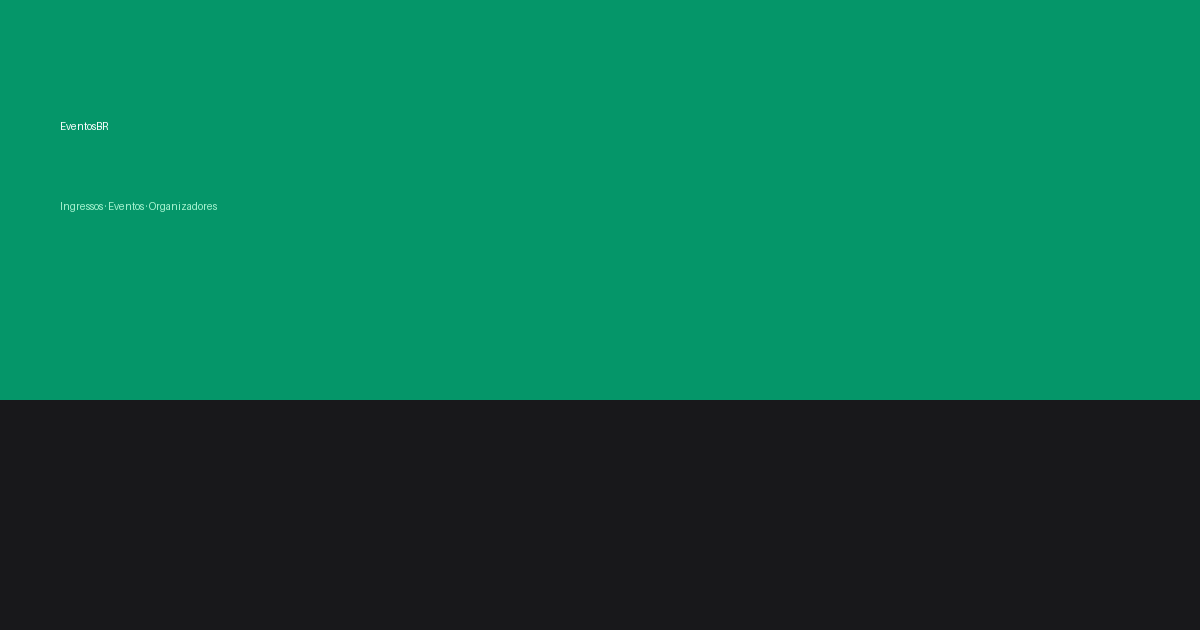
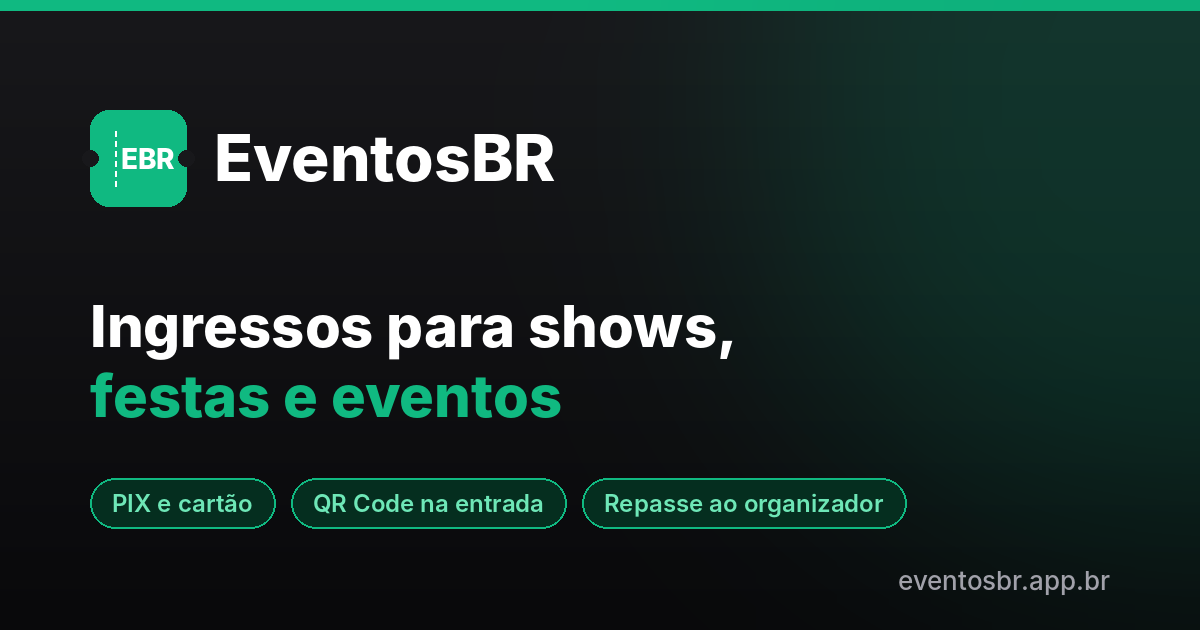
fix(seo): imagem de prévia de link (og:image) legível
A og-image.png tinha sido gerada com a fonte bitmap padrão do Pillow
(texto minúsculo) e a prévia no WhatsApp aparecia só como faixas de cor.

- Nova og-image.png 1200x630 com logo, chamada e diferenciais
- generate_og_image.py usa Inter/DejaVu e falha se não houver fonte TTF
- URL versionada (?v=2) para furar o cache de WhatsApp/Facebook
- Home e eventos sem banner declaram a imagem padrão explicitamente

Claude-Session: https://claude.ai/code/session_01MQfWPsxDuBufWXGMQJVwpU

diff --git a/frontend/src/lib/site-metadata.ts b/frontend/src/lib/site-metadata.ts
@@ -5,13 +5,21 @@ import { DEFAULT_PLATFORM_SETTINGS } from "@/lib/platform-settings";
 
 const SITE_URL = process.env.NEXT_PUBLIC_SITE_URL?.trim() || "https://eventosbr.app.br";
 
+/** Imagem padrão da prévia de link (WhatsApp, Facebook…). Ao trocar o PNG, suba o `v` para furar o cache. */
+export const DEFAULT_OG_IMAGE = {
+  url: `${SITE_URL}/og-image.png?v=2`,
+  width: 1200,
+  height: 630,
+  alt: "EventosBR — ingressos para shows, festas e eventos",
+};
+
 const SITE_DESCRIPTION =
   "Venda e compre ingressos para shows, festas, palestras e eventos corporativos. PIX e cartão, QR Code na entrada, reembolsos automáticos e repasse direto para organizadores. Crie sua conta grátis.";
 
 export function buildMetadata(platform: PlatformSettings): Metadata {
   const siteName = platform.site_name || "EventosBR";
   const title = `${siteName} — Ingressos, Shows e Eventos Online no Brasil`;
-  const ogImage = { url: `${SITE_URL}/og-image.png`, width: 1200, height: 630, alt: siteName };
+  const ogImage = { ...DEFAULT_OG_IMAGE, alt: siteName };
 
   return {
     metadataBase: new URL(SITE_URL),
@@ -53,6 +61,13 @@ export const homeMetadata: Metadata = {
     title: SITE_TITLE,
     description: SITE_DESCRIPTION,
     url: SITE_URL,
+    images: [DEFAULT_OG_IMAGE],
+  },
+  twitter: {
+    card: "summary_large_image",
+    title: SITE_TITLE,
+    description: SITE_DESCRIPTION,
+    images: [DEFAULT_OG_IMAGE.url],
   },
 };
 

diff --git a/frontend/src/app/eventos/[slug]/page.tsx b/frontend/src/app/eventos/[slug]/page.tsx
@@ -5,6 +5,7 @@ import { typicalAgeRangeFromClassificacao } from "@/lib/evento-ficha";
 import { getEventoPublicoBySlug } from "@/lib/eventos-publicos";
 import { resolveEventoImagemSrc } from "@/lib/evento-imagem-url";
 import { serializeJsonLdForScript } from "@/lib/json-ld-html";
+import { DEFAULT_OG_IMAGE } from "@/lib/site-metadata";
 
 export async function generateMetadata({
   params,
@@ -28,13 +29,13 @@ export async function generateMetadata({
         description: desc || undefined,
         type: "website",
         url: `${base}/eventos/${evento.slug}`,
-        ...(imageUrl ? { images: [{ url: imageUrl }] } : {}),
+        images: [imageUrl ? { url: imageUrl } : DEFAULT_OG_IMAGE],
       },
       twitter: {
         card: "summary_large_image",
         title: evento.nome,
         description,
-        ...(imageUrl ? { images: [imageUrl] } : {}),
+        images: [imageUrl ?? DEFAULT_OG_IMAGE.url],
       },
     };
   } catch {

diff --git a/scripts/generate_og_image.py b/scripts/generate_og_image.py
@@ -3,10 +3,15 @@
 
 Usada como fallback de `openGraph.images` para páginas que não têm imagem
 própria (institucionais, blog sem capa, etc.) — ver frontend/src/lib/site-metadata.ts.
+É a imagem que aparece na prévia do link no WhatsApp, Facebook, LinkedIn etc.
+
+Requer uma fonte TrueType/OpenType (Inter ou DejaVu). Sem ela o script FALHA em vez
+de cair na fonte bitmap padrão do Pillow (texto minúsculo e ilegível na prévia).
 """
 
 from __future__ import annotations
 
+import sys
 from pathlib import Path
 
 from PIL import Image, ImageDraw, ImageFont
@@ -16,46 +21,95 @@ OUT = ROOT / "frontend" / "public" / "og-image.png"
 
 W, H = 1200, 630
 
+BRAND = "#10b981"
+BRAND_DARK = "#059669"
+BG_TOP = (24, 24, 27)
+BG_BOTTOM = (9, 9, 11)
 
-def _font(size: int, bold: bool = False) -> ImageFont.FreeTypeFont | ImageFont.ImageFont:
-    candidates = [
-        "/usr/share/fonts/truetype/dejavu/DejaVuSans-Bold.ttf" if bold else "/usr/share/fonts/truetype/dejavu/DejaVuSans.ttf",
-        "/usr/share/fonts/truetype/liberation/LiberationSans-Bold.ttf" if bold else "/usr/share/fonts/truetype/liberation/LiberationSans-Regular.ttf",
-    ]
-    for path in candidates:
+_FONTS = {
+    "bold": [
+        "/usr/share/fonts/opentype/inter/Inter-ExtraBold.otf",
+        "/usr/share/fonts/truetype/dejavu/DejaVuSans-Bold.ttf",
+        "/usr/share/fonts/truetype/liberation/LiberationSans-Bold.ttf",
+    ],
+    "semibold": [
+        "/usr/share/fonts/opentype/inter/Inter-SemiBold.otf",
+        "/usr/share/fonts/truetype/dejavu/DejaVuSans-Bold.ttf",
+        "/usr/share/fonts/truetype/liberation/LiberationSans-Bold.ttf",
+    ],
+    "regular": [
+        "/usr/share/fonts/opentype/inter/Inter-Medium.otf",
+        "/usr/share/fonts/truetype/dejavu/DejaVuSans.ttf",
+        "/usr/share/fonts/truetype/liberation/LiberationSans-Regular.ttf",
+    ],
+}
+
+
+def _font(size: int, weight: str = "regular") -> ImageFont.FreeTypeFont:
+    for path in _FONTS[weight]:
         if Path(path).exists():
             return ImageFont.truetype(path, size)
-    return ImageFont.load_default()
+    sys.exit(
+        "Nenhuma fonte TrueType encontrada (instale fonts-inter ou fonts-dejavu-core). "
+        "Abortando para não gerar uma prévia ilegível."
+    )
+
+
+def _ticket_icon(draw: ImageDraw.ImageDraw, x: int, y: int, s: int) -> None:
+    """Ícone de ingresso da marca (mesmo desenho de logo-icon.svg), lado `s`."""
+    draw.rounded_rectangle((x, y, x + s, y + s), radius=int(s * 0.2), fill=BRAND)
+    r = int(s * 0.09)
+    cy = y + s // 2
+    draw.ellipse((x - r, cy - r, x + r, cy + r), fill=BG_TOP)
+    draw.ellipse((x + s - r, cy - r, x + s + r, cy + r), fill=BG_TOP)
+    lx = x + int(s * 0.27)
+    for yy in range(y + int(s * 0.22), y + int(s * 0.8), 10):
+        draw.line((lx, yy, lx, yy + 5), fill=(255, 255, 255), width=2)
+    f = _font(int(s * 0.3), "bold")
+    draw.text((x + s * 0.6, cy), "EBR", fill="#ffffff", font=f, anchor="mm")
 
 
 def main() -> None:
-    img = Image.new("RGB", (W, H), "#0a0a0a")
+    img = Image.new("RGB", (W, H), BG_BOTTOM)
     draw = ImageDraw.Draw(img)
 
-    # Gradiente vertical sutil (zinc-900 -> preto), consistente com o tema escuro da marca.
     for y in range(H):
         t = y / H
-        r = int(24 + (10 - 24) * t)
-        g = int(24 + (10 - 24) * t)
-        b = int(27 + (10 - 27) * t)
-        draw.line([(0, y), (W, y)], fill=(r, g, b))
+        c = tuple(int(a + (b - a) * t) for a, b in zip(BG_TOP, BG_BOTTOM))
+        draw.line([(0, y), (W, y)], fill=c)
 
-    # Barra de destaque na cor primária da marca.
-    draw.rounded_rectangle((80, 250, 130, 380), radius=8, fill="#10b981")
+    # Faixa verde da marca no topo e brilho suave à direita.
+    draw.rectangle((0, 0, W, 10), fill=BRAND)
+    glow = Image.new("L", (W, H), 0)
+    ImageDraw.Draw(glow).ellipse((760, -220, 1500, 520), fill=60)
+    from PIL import ImageFilter
 
-    draw.text((160, 250), "EventosBR", fill="#ffffff", font=_font(72, True))
-    draw.text((160, 335), "Ingressos, shows e eventos no Brasil", fill="#a1a1aa", font=_font(30))
+    glow = glow.filter(ImageFilter.GaussianBlur(120))
+    img.paste(Image.new("RGB", (W, H), BRAND_DARK), (0, 0), glow)
+    draw = ImageDraw.Draw(img)
 
-    chips = ["PIX", "Cartão", "QR Code na entrada"]
-    x = 160
+    left = 90
+    _ticket_icon(draw, left, 110, 96)
+    draw.text((left + 124, 158), "EventosBR", fill="#ffffff", font=_font(64, "bold"), anchor="lm")
+
+    draw.text((left, 290), "Ingressos para shows,", fill="#ffffff", font=_font(58, "bold"))
+    draw.text((left, 360), "festas e eventos", fill=BRAND, font=_font(58, "bold"))
+
+    chips = ["PIX e cartão", "QR Code na entrada", "Repasse ao organizador"]
+    cf = _font(24, "semibold")
+    x, y0 = left, 478
     for chip in chips:
-        tw = draw.textlength(chip, font=_font(20, True))
-        draw.rounded_rectangle((x, 420, x + tw + 40, 462), radius=21, fill="#052e1f", outline="#10b981")
-        draw.text((x + 20, 431), chip, fill="#6ee7b7", font=_font(20, True))
-        x += tw + 40 + 16
+        tw = draw.textlength(chip, font=cf)
+        draw.rounded_rectangle(
+            (x, y0, x + tw + 44, y0 + 50), radius=25, fill="#052e1f", outline=BRAND, width=2
+        )
+        draw.text((x + 22, y0 + 25), chip, fill="#6ee7b7", font=cf, anchor="lm")
+        x += tw + 44 + 16
+
+    draw.text((W - 90, H - 40), "eventosbr.app.br", fill="#a1a1aa", font=_font(26), anchor="rs")
 
     OUT.parent.mkdir(parents=True, exist_ok=True)
-    img.save(OUT, format="PNG")
+    img.save(OUT, format="PNG", optimize=True)
     print(f"Wrote {OUT}")
 
 
